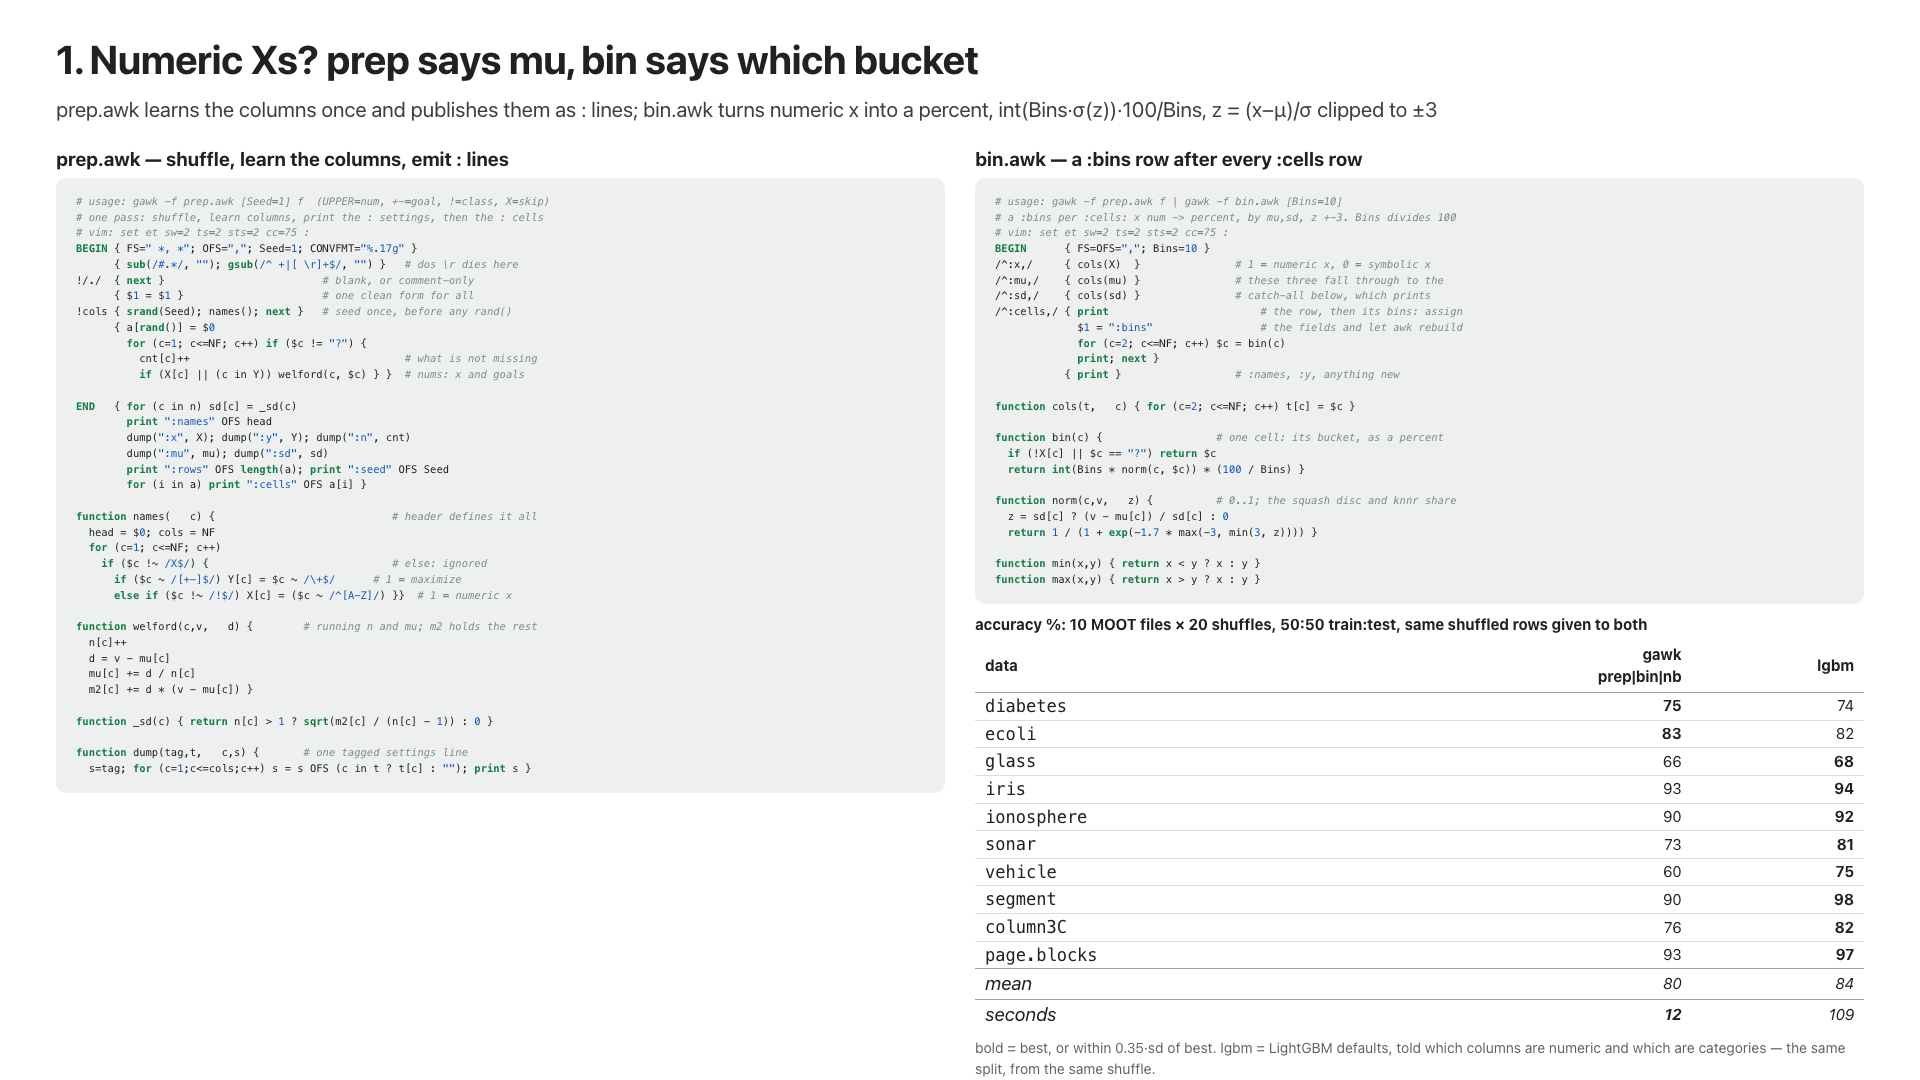
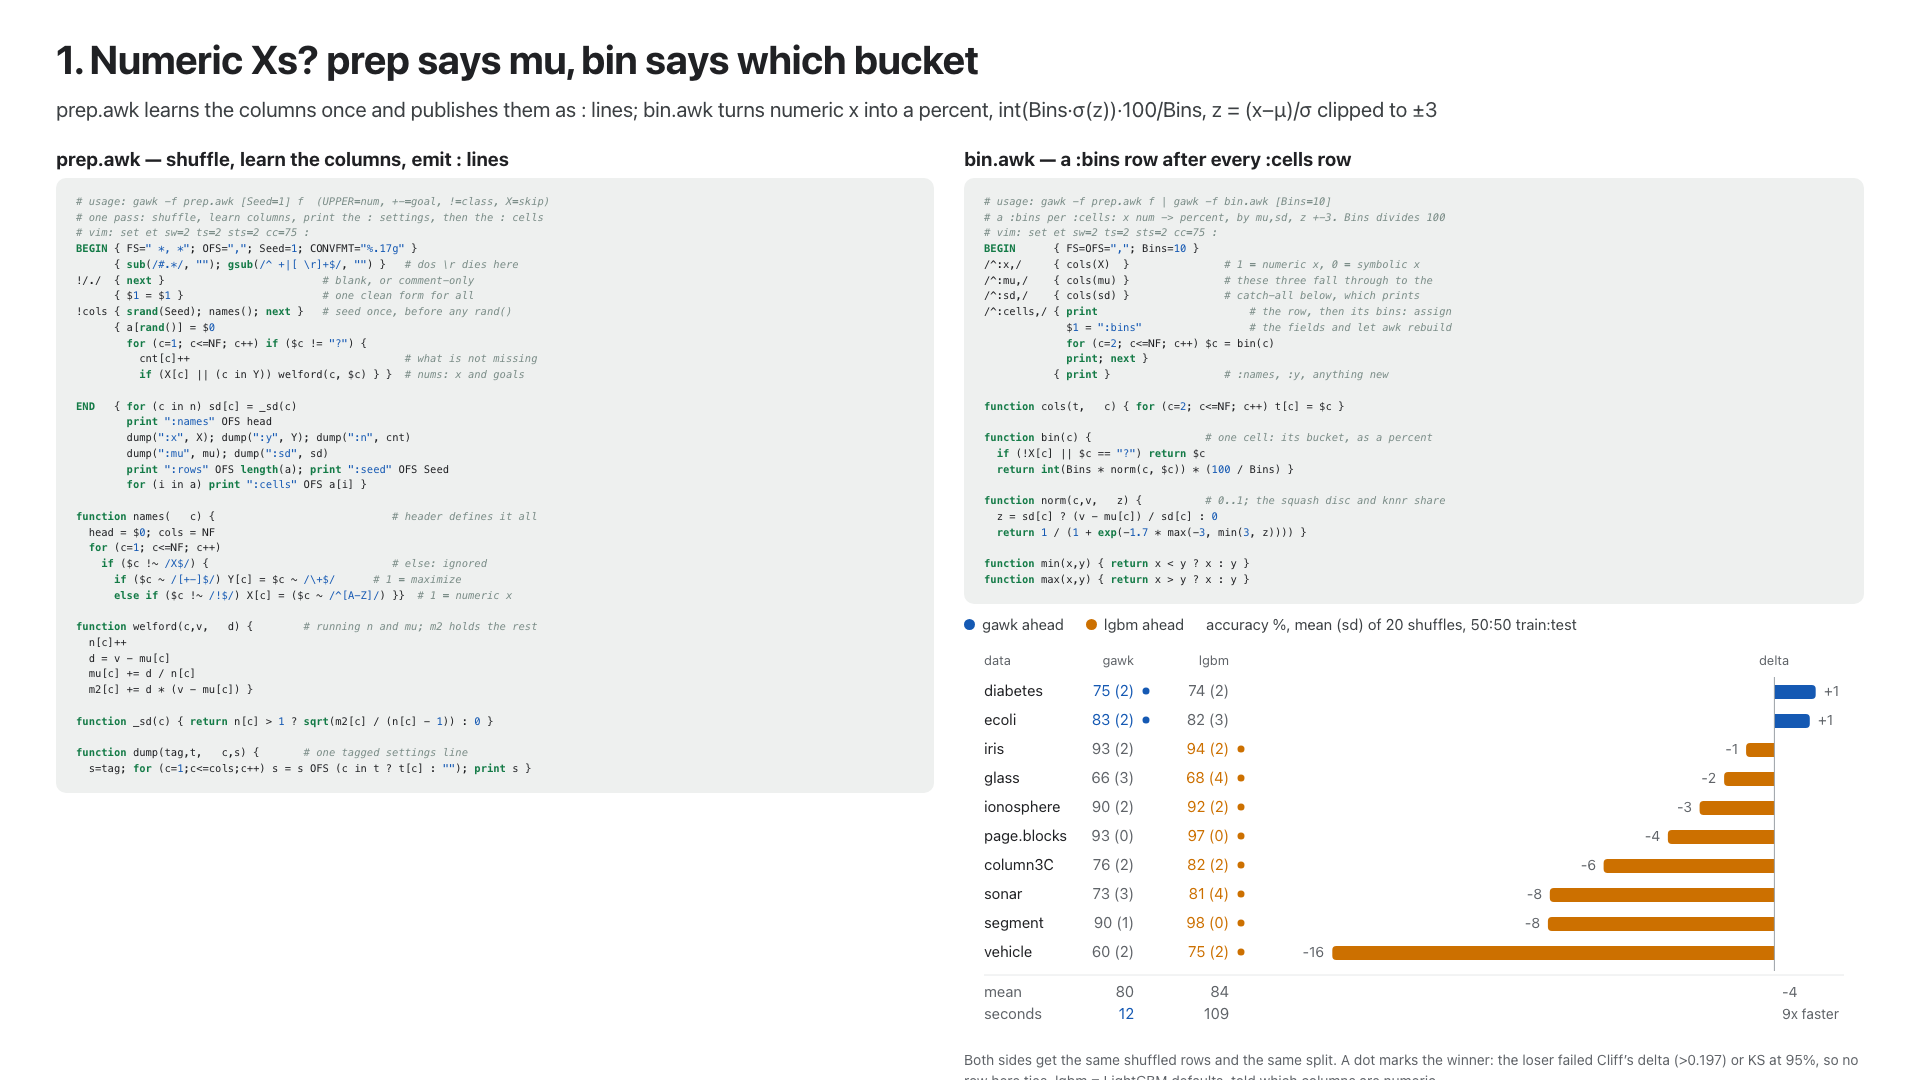
as

diff --git a/slides/slide2.html b/slides/slide2.html
@@ -12,6 +12,12 @@
   h2 { margin-bottom: 4px; }
   .stack > * + * { margin-top: 10px; }
   p.note { font-size: 14px; }
+  .legend { display: flex; gap: 22px; margin: 2px 0 10px;
+            font-size: 15px; color: #3c4043; }
+  .legend span { display: inline-flex; align-items: center; gap: 7px; }
+  .dot { width: 11px; height: 11px; border-radius: 50%; display: inline-block; }
+  .dot.ink { background: #1559b3; }
+  .dot.pick { background: #cc7000; }
 </style>
 </head>
 <body class="cols-2">
@@ -33,12 +39,16 @@
       <pre class="awk" data-src="bundle/gawk/bin.awk"></pre>
     </div>
     <div>
-      <table>
-        <caption>accuracy %: 10 MOOT files &times; 20 shuffles, 50:50 train:test, same shuffled rows given to both</caption>
-        <thead><tr><th>data</th><th>gawk<br>prep|bin|nb</th><th>lgbm</th></tr></thead>
-        <tbody data-raw="slides/fig/nb-rows.html"></tbody>
-      </table>
-      <p class="note">bold = best, or within 0.35&middot;sd of best. lgbm = LightGBM defaults, told which columns are numeric and which are categories &mdash; the same split, from the same shuffle.</p>
+      <div class="legend">
+        <span><i class="dot ink"></i> gawk ahead</span>
+        <span><i class="dot pick"></i> lgbm ahead</span>
+        <span>accuracy %, mean (sd) of 20 shuffles, 50:50 train:test</span>
+      </div>
+      <div data-raw="slides/fig/nb-chart.svg"></div>
+      <p class="note">Both sides get the same shuffled rows and the same
+        split. A dot marks the winner: the loser failed Cliff&rsquo;s delta
+        (&gt;0.197) or KS at 95%, so no row here ties. lgbm = LightGBM
+        defaults, told which columns are numeric.</p>
     </div>
   </section>
 </div>

diff --git a/slides/fig/nb-rows.html b/slides/fig/nb-rows.html
@@ -1,0 +1,12 @@
+<tr><td>diabetes</td><td class="b">75 (2)</td><td>74 (2)</td><td>+1</td></tr>
+<tr><td>ecoli</td><td class="b">83 (2)</td><td>82 (3)</td><td>+1</td></tr>
+<tr><td>iris</td><td>93 (2)</td><td class="b">94 (2)</td><td>-1</td></tr>
+<tr><td>glass</td><td>66 (3)</td><td class="b">68 (4)</td><td>-2</td></tr>
+<tr><td>ionosphere</td><td>90 (2)</td><td class="b">92 (2)</td><td>-3</td></tr>
+<tr><td>page.blocks</td><td>93 (0)</td><td class="b">97 (0)</td><td>-4</td></tr>
+<tr><td>column3C</td><td>76 (2)</td><td class="b">82 (2)</td><td>-6</td></tr>
+<tr><td>sonar</td><td>73 (3)</td><td class="b">81 (4)</td><td>-8</td></tr>
+<tr><td>segment</td><td>90 (1)</td><td class="b">98 (0)</td><td>-8</td></tr>
+<tr><td>vehicle</td><td>60 (2)</td><td class="b">75 (2)</td><td>-16</td></tr>
+<tr class="mean"><td>mean</td><td>80</td><td>84</td><td>-4</td></tr>
+<tr class="mean"><td>seconds</td><td class="b">12</td><td>109</td><td></td></tr>

diff --git a/slides/fig/nb5-row.html b/slides/fig/nb5-row.html
@@ -1,0 +1,1 @@
+<td>Numeric Xs<small>accuracy</small></td><td style="text-align:left" class="cmp">prep|bin|nb / lgbm</td><td class="trip">80 / <b>84</b></td><td class="trip">2 / <b>8</b></td><td class="trip"><b>12</b> / 109</td>

diff --git a/slides/clas.py b/slides/clas.py
@@ -1,0 +1,237 @@
+#!/usr/bin/env python3 -B
+# vim: set et sw=2 ts=2 sts=2 cc=75 :
+# clas.py: how good is the gawk classifier?  Runs `prep | bin | nb` on
+# 10 MOOT files x SEEDS shuffles, 50:50, and scores it against LightGBM
+# given the SAME shuffled rows and the same split.  Reports mean accuracy
+# and the wall clock of each side.  Writes the table body slide 2 shows.
+# Needs the MOOT data: cd bundle/gawk && make moot.
+# usage: python3 slides/clas.py   (or: make fig)
+import json, os, statistics as st, subprocess, sys
+import time, warnings
+import numpy as np
+
+warnings.simplefilter("ignore")
+HERE = os.path.dirname(os.path.abspath(__file__))
+GAWK = os.path.dirname(HERE) + "/bundle/gawk"
+MOOT = os.path.expanduser(
+          os.environ.get("MOOT", "~/tmp/moot")) + "/classify"
+FIG, TMP = HERE + "/fig", "/tmp/clas-run"
+SEEDS, TIE = range(1, 21), .35
+CLIFFS, COHEN = .197, .35    # thresholds from ~/gh/super/start.py
+FILES = "diabetes ecoli glass iris ionosphere sonar vehicle segment " \
+        "column3C page.blocks".split()
+
+SH = """
+set -e
+cd {gawk}
+gawk -f prep.awk Seed={seed} {src} > {t}/p
+T=$(( $(grep -c '^:cells,' {t}/p) / 2 ))
+grep '^:cells,' {t}/p | cut -d, -f2- > {t}/rows
+grep '^:x,' {t}/p > {t}/x
+gawk -f bin.awk {t}/p | gawk -f nb.awk t=$T > {t}/pairs
+echo $T > {t}/T
+"""
+
+
+def gawk(src, seed):         # the pipeline: guesses, actuals, seconds
+  t0 = time.perf_counter()
+  subprocess.run(["bash", "-c",
+                  SH.format(gawk=GAWK, seed=seed, src=src, t=TMP)],
+                 check=True, capture_output=True)
+  secs = time.perf_counter() - t0
+  f = [l.rstrip("\n").split("\t")
+       for l in open(TMP + "/pairs") if l.strip()]
+  return ([x[0] for x in f], [x[1] for x in f],
+          int(open(TMP + "/T").read()), secs)
+
+
+def lgbm(T):                   # same rows, same split, LightGBM defaults
+  import lightgbm as lgb
+  t0 = time.perf_counter()
+  rows = [l.strip().split(",") for l in open(TMP + "/rows") if l.strip()]
+  isnum = open(TMP + "/x").read().strip().split(",")[1:]  # prep says so
+  x, y = [r[:-1] for r in rows], [r[-1] for r in rows]
+  cols, cat = [], []
+  for c in range(len(x[0])):
+    if isnum[c] == "1":                                    # a number is a
+      cols += [[float(r[c]) if r[c] != "?" else np.nan for r in x]]
+    else:                                                  # number, not a
+      u = {v: i for i, v in enumerate(sorted({r[c] for r in x}))}
+      cols += [[u[r[c]] for r in x]]; cat += [c]           # category code
+  f = np.array(cols, dtype=float).T
+  ky = {v: i for i, v in enumerate(sorted(set(y)))}
+  back = {i: v for v, i in ky.items()}
+  m = lgb.LGBMClassifier(verbose=-1, n_estimators=100)
+  m.fit(f[:T], [ky[v] for v in y[:T]], categorical_feature=cat or "auto")
+  got = [back[int(p)] for p in m.predict(f[T:])]
+  return got, y[T:], time.perf_counter() - t0
+
+
+def cliffs(xs, ys):          # true if the effect size is small
+  gt = sum(x > y for x in xs for y in ys)
+  lt = sum(x < y for x in xs for y in ys)
+  return abs(gt - lt) / (len(xs) * len(ys)) <= CLIFFS
+
+
+def cohen(xs, ys):           # true if means closer than COHEN * pooled sd
+  n, m = len(xs), len(ys)
+  sp = (((n - 1) * st.stdev(xs)**2 + (m - 1) * st.stdev(ys)**2)
+        / (n + m - 2)) ** 0.5
+  return abs(st.mean(xs) - st.mean(ys)) <= COHEN * (sp or 1E-32)
+
+
+def ks(xs, ys):              # kolmogorov-smirnov: "same" at 95%?
+  from bisect import bisect_right
+  xs, ys = sorted(xs), sorted(ys)
+  n, m = len(xs), len(ys)
+  cdf = lambda a, v: bisect_right(a, v) / len(a)
+  d = max(abs(cdf(xs, v) - cdf(ys, v)) for v in xs + ys)
+  return d <= 1.36 * ((n + m) / (n * m)) ** 0.5
+
+
+def same(xs, ys):            # as ~/gh/super/eval.py has it
+  return cliffs(xs, ys) and ks(xs, ys)
+
+
+def acc(got, want):
+  return 100 * sum(a == b for a, b in zip(got, want)) / len(want)
+
+
+def trip(v, fmt, lo=False):   # two numbers, the better one bold
+  pick = min(v) if lo else max(v)
+  return " / ".join(f"<b>{x:{fmt}}</b>" if x == pick else f"{x:{fmt}}"
+                    for x in v)
+
+
+#-- figure ------------------------------------------------------------------
+INK, PICK, GRID = "#1559b3", "#cc7000", "#e6e8e9"
+AXIS, MUTED, DARK = "#9aa0a6", "#5f6368", "#202124"
+W, RH, L, BAR = 900, 29, 300, 14      # width, row height, label gutter, bar
+
+
+def bar(x, y, w, h, fill):            # 4px rounded on the data end only
+  r = min(4, abs(w))
+  if w >= 0:
+    d = (f"M{x},{y} h{w-r} a{r},{r} 0 0 1 {r},{r} v{h-2*r} "
+         f"a{r},{r} 0 0 1 {-r},{r} h{-(w-r)} z")
+  else:
+    d = (f"M{x},{y} h{w+r} a{r},{r} 0 0 0 {-r},{r} v{h-2*r} "
+         f"a{r},{r} 0 0 0 {r},{r} h{-(w+r)} z")
+  return f'<path d="{d}" fill="{fill}"/>'
+
+
+def txt(x, y, s, anchor="start", size=15, fill=DARK, extra=""):
+  return (f'<text x="{x:.0f}" y="{y:.0f}" text-anchor="{anchor}" '
+          f'font-size="{size}" fill="{fill}" {extra}>{s}</text>')
+
+
+def chart(out, d, secs):
+  """A diverging bar per file: gawk minus lgbm, sorted. Blue = gawk ahead,
+  orange = lgbm ahead. Each row also carries both means, sd in brackets,
+  and a dot on the winner -- so identity never rests on colour alone."""
+  lo = min(min(r[4] for r in out), 0) - 1
+  hi = max(max(r[4] for r in out), 0) + 1
+  span, h = W - L - 60, RH * (len(out) + 1) + 70
+  sx = lambda v: L + 40 + (v - lo) / (hi - lo) * span
+  o = [f'<svg viewBox="0 0 {W} {h}" width="{W}" height="{h}" '
+       f'xmlns="http://www.w3.org/2000/svg" role="img" '
+       f'aria-label="accuracy of gawk versus LightGBM, by dataset">',
+       txt(20, 20, "data", size=13, fill=MUTED),
+       txt(170, 20, "gawk", "end", 13, MUTED),
+       txt(265, 20, "lgbm", "end", 13, MUTED),
+       txt(sx(0), 20, "delta", "middle", 13, MUTED)]
+  for i, (name, sd, a, b, gap, win, *_) in enumerate(out):
+    y = 40 + i * RH
+    o += [txt(20, y + 11, name, size=15),
+          txt(170, y + 11, f"{a:.0f} ({sd[0]:.0f})", "end", 15,
+              INK if win[0] else MUTED),
+          txt(265, y + 11, f"{b:.0f} ({sd[1]:.0f})", "end", 15,
+              PICK if win[1] else MUTED),
+          f'<circle cx="{182 if win[0] else 277}" cy="{y+6}" r="3.5" '
+          f'fill="{INK if win[0] else PICK}"/>',
+          bar(sx(0), y, sx(gap) - sx(0), BAR, INK if gap > 0 else PICK),
+          txt(sx(gap) + (8 if gap > 0 else -8), y + 11, f"{gap:+.0f}",
+              "start" if gap > 0 else "end", 14, MUTED)]
+  y = 40 + len(out) * RH
+  o += [f'<line x1="{sx(0)}" y1="32" x2="{sx(0)}" y2="{y-4}" '
+        f'stroke="{AXIS}" stroke-width="1"/>',
+        f'<line x1="20" y1="{y}" x2="{W-20}" y2="{y}" stroke="{GRID}" '
+        f'stroke-width="1"/>',
+        txt(20, y + 22, "mean", size=15, fill=MUTED),
+        txt(170, y + 22, f"{d[0]:.0f}", "end", 15, MUTED),
+        txt(265, y + 22, f"{d[1]:.0f}", "end", 15, MUTED),
+        txt(sx(0) + 8, y + 22, f"{d[0]-d[1]:+.0f}", size=14, fill=MUTED),
+        txt(20, y + 44, "seconds", size=15, fill=MUTED),
+        txt(170, y + 44, f"{secs[0]:.0f}", "end", 15, INK),
+        txt(265, y + 44, f"{secs[1]:.0f}", "end", 15, MUTED),
+        txt(sx(0) + 8, y + 44, "9x faster", size=14, fill=MUTED),
+        "</svg>"]
+  open(f"{FIG}/nb-chart.svg", "w").write("\n".join(o) + "\n")
+
+
+def main():
+  os.makedirs(TMP, exist_ok=True); os.makedirs(FIG, exist_ok=True)
+  raw, secs = {}, [0.0, 0.0]
+  for name in FILES:
+    runs = [[], []]
+    for seed in SEEDS:
+      got, want, T, s1 = gawk(f"{MOOT}/{name}.csv", seed)
+      g2, w2, s2 = lgbm(T)
+      runs[0] += [acc(got, want)]; runs[1] += [acc(g2, w2)]
+      secs[0] += s1; secs[1] += s2
+    raw[name] = runs
+    print(f"{name:14}{st.mean(runs[0]):7.1f}{st.mean(runs[1]):7.1f}",
+          flush=True)
+  json.dump({"raw": raw, "secs": secs}, open(f"{FIG}/nb-runs.json", "w"))
+  report(raw, secs)
+
+
+def report(raw, secs):       # all the tables, from the cached runs
+  out, down, best = [], [[], []], [0, 0]
+  for name, runs in raw.items():
+    a, b = st.mean(runs[0]), st.mean(runs[1])
+    tie = same(runs[0], runs[1])
+    win = [a >= b or tie, b >= a or tie]          # best, plus any tie
+    for i in (0, 1):
+      down[i] += [(a, b)[i]]; best[i] += win[i]
+    out += [(name, (st.stdev(runs[0]), st.stdev(runs[1])), a, b, a - b, win,
+             ks(runs[0], runs[1]), cliffs(runs[0], runs[1]),
+             cohen(runs[0], runs[1]))]
+  out.sort(key=lambda r: -r[4])
+  d = [st.mean(c) for c in down]
+  cell = lambda v, s, w: (f'<td class="b">{v:.0f} ({s:.0f})</td>' if w
+                          else f"<td>{v:.0f} ({s:.0f})</td>")
+  body = [f"<tr><td>{n}</td>" + cell(a, sd[0], w[0]) + cell(b, sd[1], w[1])
+          + f"<td>{gap:+.0f}</td></tr>"
+          for n, sd, a, b, gap, w, _, _, _ in out]
+  body += ['<tr class="mean"><td>mean</td>'
+           + "".join(f"<td>{v:.0f}</td>" for v in d)
+           + f"<td>{d[0]-d[1]:+.0f}</td></tr>",
+           '<tr class="mean"><td>seconds</td>'
+           + "".join(f'<td class="b">{v:.0f}</td>' if v <= min(secs)
+                     else f"<td>{v:.0f}</td>" for v in secs)
+           + "<td></td></tr>"]
+  open(f"{FIG}/nb-rows.html", "w").write("\n".join(body) + "\n")
+  row = ('<td>Numeric Xs<small>accuracy</small></td>'
+         '<td style="text-align:left" class="cmp">prep|bin|nb / lgbm</td>'
+         f'<td class="trip">{trip(d, ".0f")}</td>'
+         f'<td class="trip">{trip(best, "d")}</td>'
+         f'<td class="trip">{trip(secs, ".0f", lo=True)}</td>')
+  open(f"{FIG}/nb5-row.html", "w").write(row + "\n")
+  chart(out, d, secs)
+  print(f"\n{'data':13}{'gawk':>9}{'lgbm':>10}{'delta':>8}")
+  for n, sd, a, b, gap, w, k, cl, ch in out:
+    print(f"{n:13}  {' *'[w[0]]}{a:3.0f} ({sd[0]:.0f})"
+          f"  {' *'[w[1]]}{b:3.0f} ({sd[1]:.0f}){gap:+8.0f}")
+  print(f"{'mean':13}   {d[0]:3.0f}       {d[1]:3.0f}    {d[0]-d[1]:+8.0f}")
+  print(f"{'seconds':13}   {secs[0]:3.0f}       {secs[1]:3.0f}")
+  print(f"\nwins (best or tied): gawk {best[0]}, lgbm {best[1]}")
+  print("-> slides/fig/ nb-rows.html nb5-row.html nb-chart.svg")
+
+
+if __name__ == "__main__":
+  if os.path.exists(f"{FIG}/nb-runs.json") and "-c" in sys.argv:
+    j = json.load(open(f"{FIG}/nb-runs.json"))   # -c: redraw, do not rerun
+    report(j["raw"], j["secs"])
+  else:
+    main()
